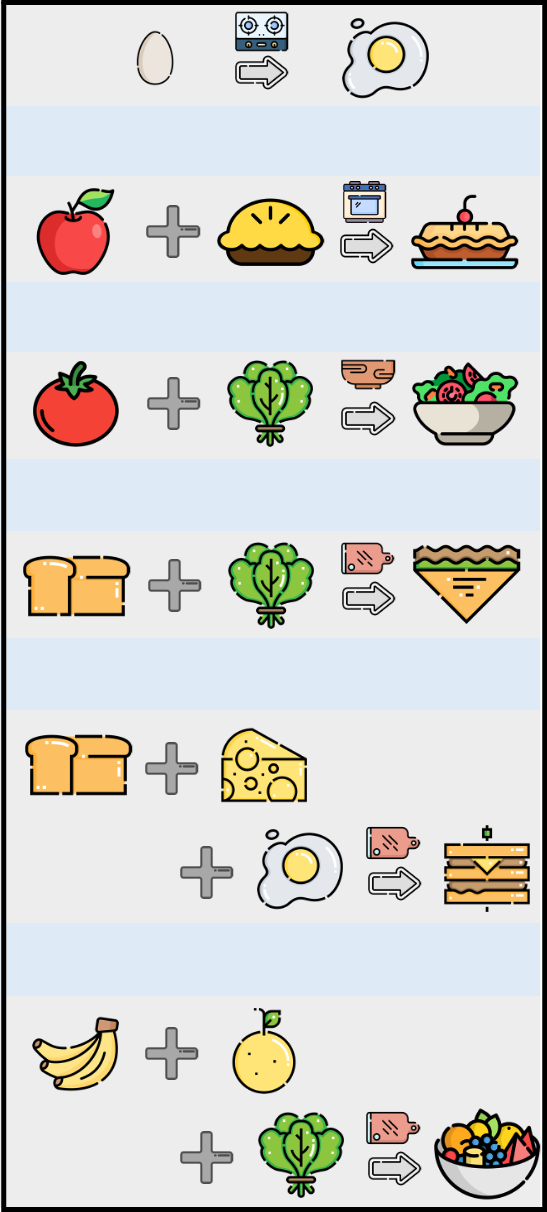
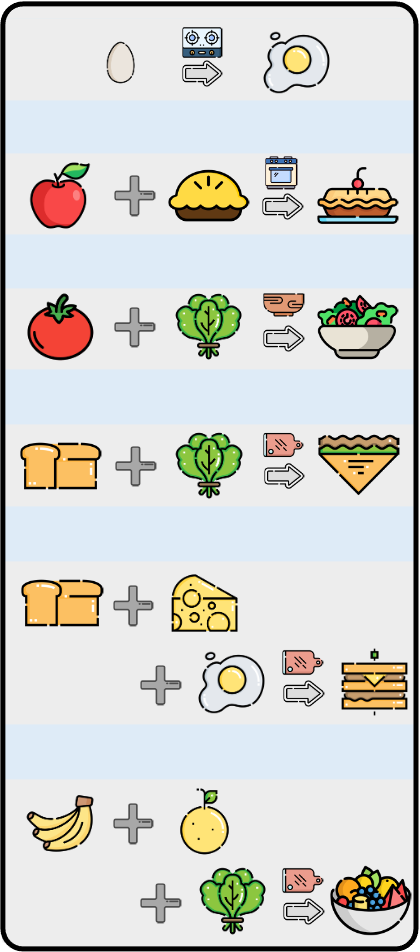
recipe pic renew

diff --git a/src/model/WorldExample3.java b/src/model/WorldExample3.java
@@ -47,7 +47,7 @@ public class WorldExample3 extends World {
         // including timer, scoreboard, recipe, orderlist
         // if you follow the size setting of world example 3
         // then only modifiy the path of the .png files
-        var recipePicture = new FixedImageDisplayer("assets/worldexample3/recipe.png", 20 + 900, 720 - 180 * 2043 / 915 + 20, 180, 180 * 2043 / 915, panel);
+        var recipePicture = new FixedImageDisplayer("assets/worldexample3/recipe.png", 20 + 900, 720 - 180 * 1600 / 701 + 20, 180, 180 * 1600 / 701, panel);
         var timerBackground = new FixedImageDisplayer("assets/worldexample3/timer.png", 20 + 900, 0, 180, 138, panel);
         var scoreboardBackground = new FixedImageDisplayer("assets/worldexample3/scoreboard.png",20 + 900, 140, 180, 180,panel);
         var orderListBackground = new FixedImageDisplayer("assets/worldexample3/orderlistbg.png", 0, 600, 900, 120, panel);
@@ -130,6 +130,7 @@ public class WorldExample3 extends World {
         //scoreboard.setX(1050);
         addSprite(new OrderDiplayer(50, 600, window, panel));
 
+        addSprite(new Grass1(computeCoordinate(12,3), staticItemShape));
         
     }
 
@@ -160,4 +161,6 @@ public class WorldExample3 extends World {
         return new SpriteShape(new Dimension(146 / 2, 176 / 2),
                 new Dimension(40 / 2, 38 / 2), new Dimension(66 / 2, 104 / 2));
     }
+
+    
 }

diff --git a/src/item/staticItem/Grass1.java b/src/item/staticItem/Grass1.java
@@ -1,0 +1,37 @@
+package item.staticItem;
+
+import fsm.ImageRenderer;
+import fsm.WaitingPerFrame;
+import item.Idle;
+import item.ItemImageRenderer;
+import model.SpriteShape;
+import java.awt.*;
+
+import static utils.ImageStateUtils.imageStatesFromFolder;
+
+public class Grass1 extends StaticItem {
+
+    public Grass1(Point location, SpriteShape shape) {
+        super(location, shape);
+        ImageRenderer imageRenderer = new ItemImageRenderer(this);
+        idle = new WaitingPerFrame(4,
+                new Idle(imageStatesFromFolder("assets/item/grass1", imageRenderer)));
+    }
+
+
+    @Override
+    public Rectangle getRange() {
+        return new Rectangle(location, shape.size);
+    }
+
+    @Override
+    public Dimension getBodyOffset() {
+        return shape.bodyOffset;
+    }
+
+    @Override
+    public Dimension getBodySize() {
+        return shape.bodySize;
+    }
+    
+}
